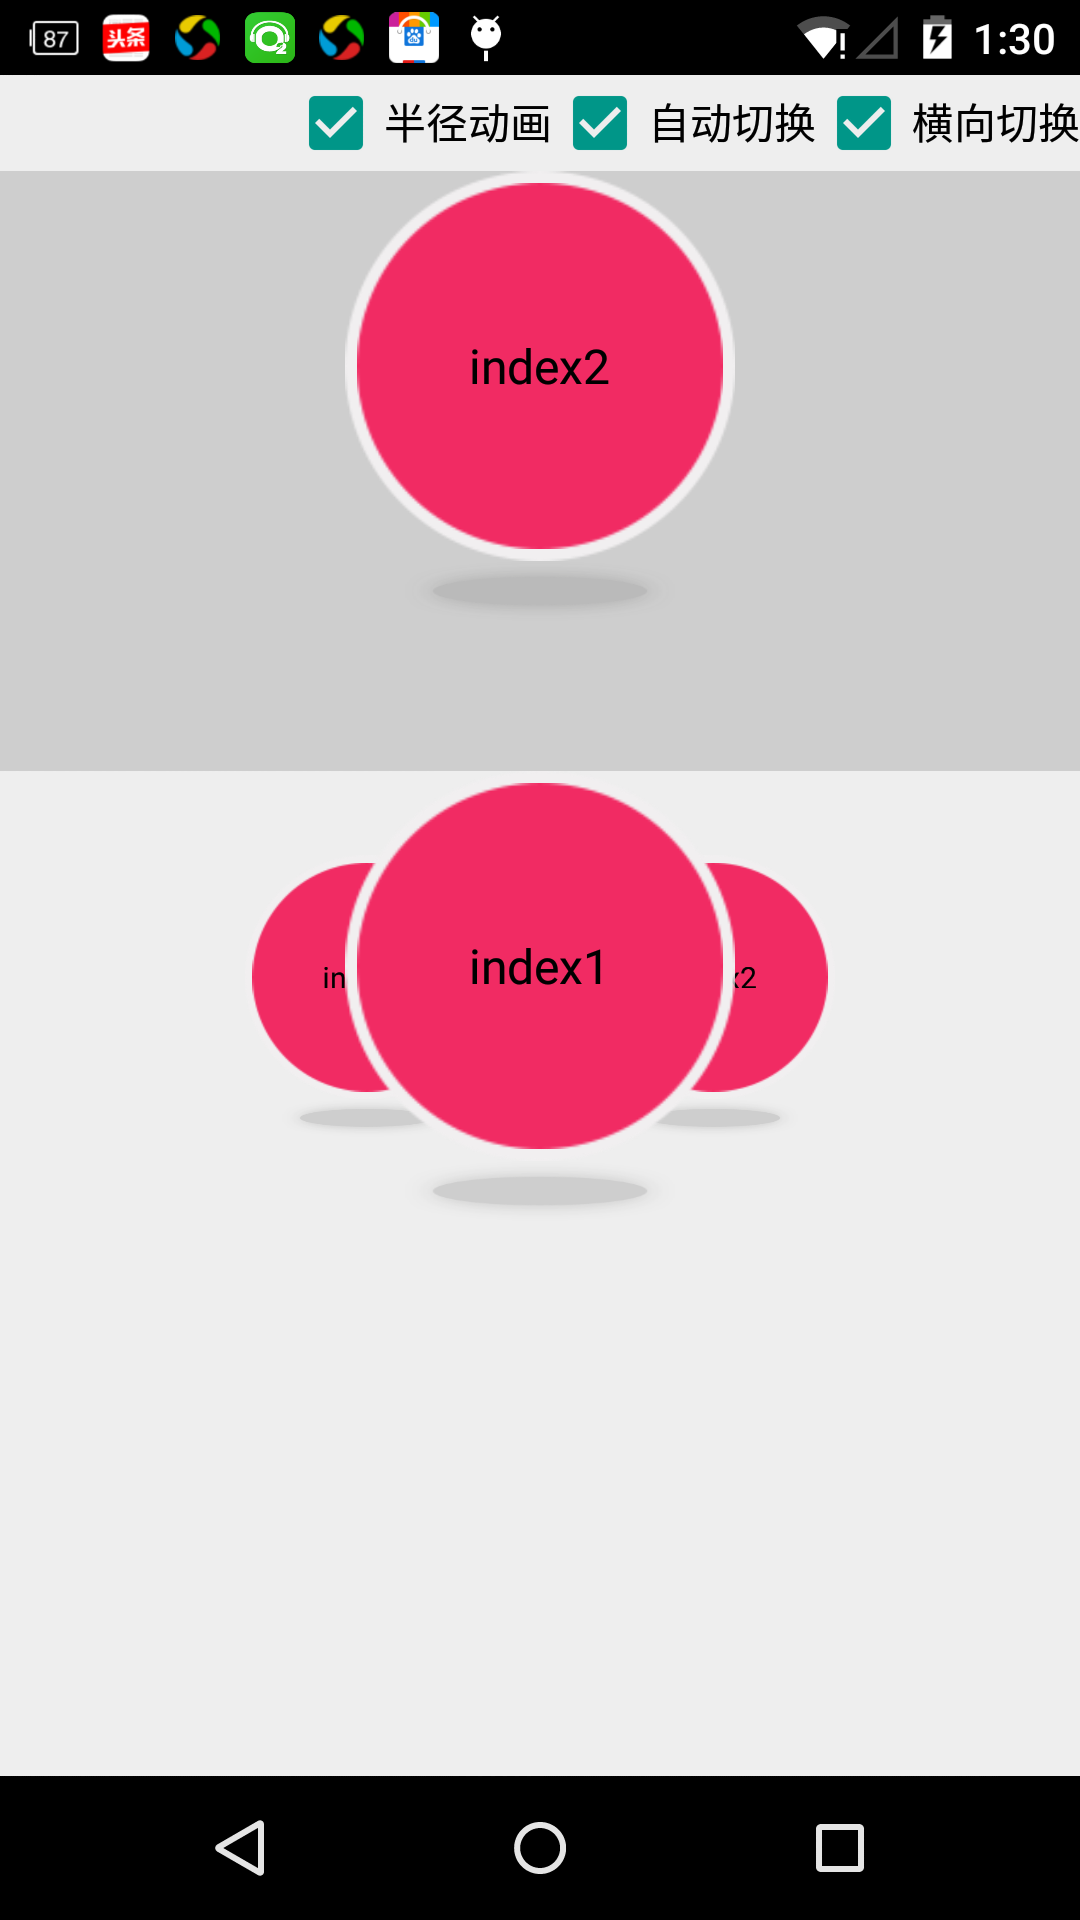
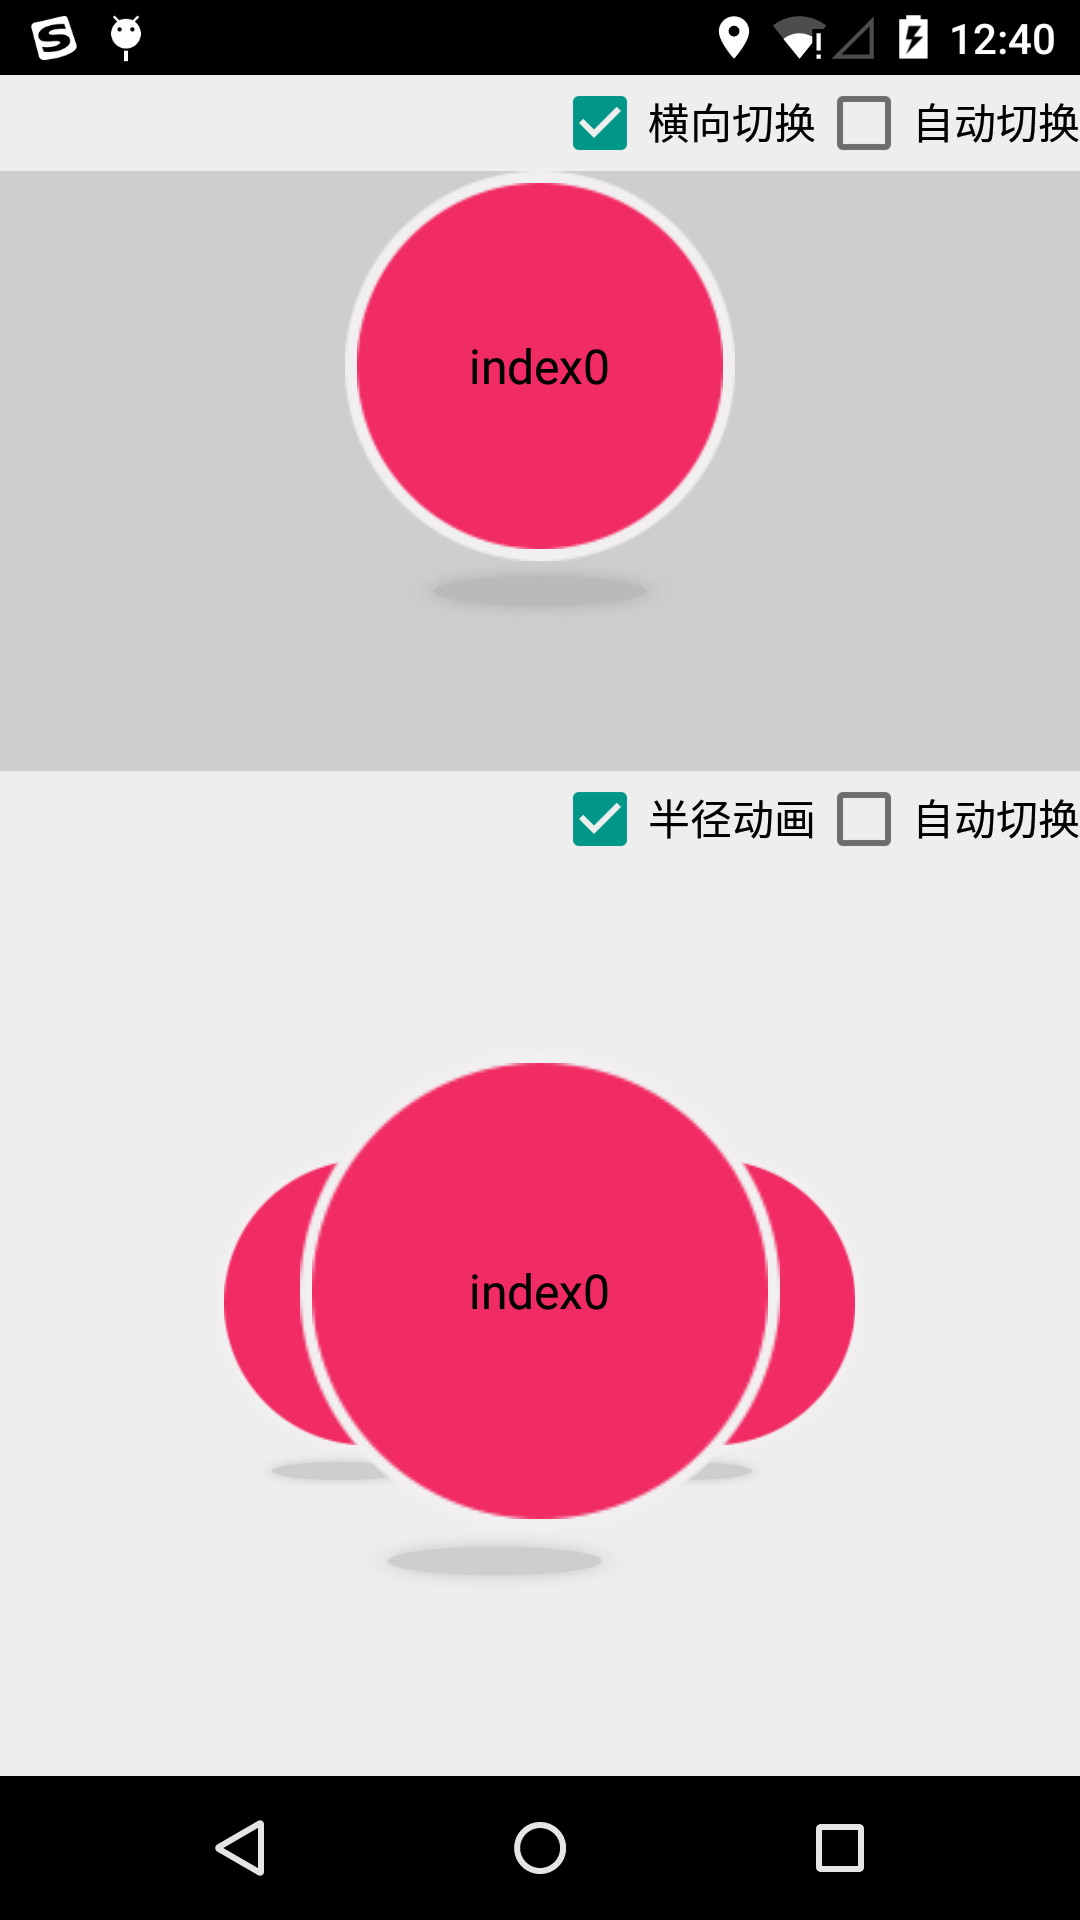
优化LoopViewPager横向竖向切换稳定性，优化LoopView排序内存占用

diff --git a/loopviews/src/main/java/com/cry/loopviews/LoopView.java b/loopviews/src/main/java/com/cry/loopviews/LoopView.java
@@ -21,10 +21,11 @@ import java.util.List;
  */
 public class LoopView extends RelativeLayout{
     final static int LoopR=200;;
-    Context con;
     ValueAnimator restAnimator =null;//回位动画
     ValueAnimator rAnimation =null;//半径动画
     GestureDetector mGestureDetector=null;//手势类
+    Comparator comp=new SortComparator();
+    List<View> viewSortArray =new ArrayList<View>();
     private int selectItem=0;//当前选择项
     private int   size=0;//个数
     private float r=LoopR;//半径
@@ -58,11 +59,9 @@ public class LoopView extends RelativeLayout{
     }
 
     private void init(Context context) {
-        this.con=context;
         mGestureDetector= new GestureDetector(context, getGeomeryController());
     }
     private void sortList(List<View> list){
-        Comparator comp=new SortComparator();
         Collections.sort(list, comp);
         for (int i=0;i<list.size();i++){
             list.get(i).bringToFront();
@@ -83,7 +82,6 @@ public class LoopView extends RelativeLayout{
         return new GestureDetector.SimpleOnGestureListener(){
             @Override
             public boolean onScroll(MotionEvent e1, MotionEvent e2, float distanceX, float distanceY) {
-                //Log.i("ds","distance:"+distanceX);
                 angle+=distanceX/4;
                 invate();
                 return true;
@@ -101,13 +99,13 @@ public class LoopView extends RelativeLayout{
             views.get(i).setScaleY(scale0);
             views.get(i).setX(width / 2 + x0 - views.get(i).getWidth() / 2);
         }
-        List<View> arr=new ArrayList<View>();
+        viewSortArray.clear();
         for (int i=0;i<views.size();i++){
-            arr.add(views.get(i));
+            viewSortArray.add(views.get(i));
             views.get(i).setTag(i);
         }
-        sortList(arr);
-        postInvalidate();
+        sortList(viewSortArray);
+        invalidate();
     }
 
     @Override
@@ -148,10 +146,10 @@ public class LoopView extends RelativeLayout{
 
 
     public void InitData() {
-        initView();
+        loadAllViews();
         if(onItemSelectedListener!=null){onItemSelectedListener.selected(selectItem,views.get(selectItem));}
     }
-    private void initView() {
+    private void loadAllViews() {
         for (int i=0;i<views.size();i++){
             views.remove(i);
         }
@@ -161,7 +159,6 @@ public class LoopView extends RelativeLayout{
             views.add(getChildAt(i));
         }
     }
-
     private void restPosition() {
         if(size==0){return;}
         float finall=0;
@@ -184,14 +181,11 @@ public class LoopView extends RelativeLayout{
         }
         AnimRotationTo(finall, null);
     }
-
-
     private void AnimRotationTo(float finall, final Runnable complete){
         if(angle==finall){return;}
         restAnimator = ValueAnimator.ofFloat(angle,finall);
         restAnimator.setInterpolator(new DecelerateInterpolator());
         restAnimator.setDuration(300);
-
         restAnimator.addUpdateListener(new ValueAnimator.AnimatorUpdateListener() {
             @Override
             public void onAnimationUpdate(ValueAnimator animation) {
@@ -271,16 +265,10 @@ public class LoopView extends RelativeLayout{
         }
         return true;
     }
-
-
     @Override
     public boolean onTouchEvent(MotionEvent event) {
-        //onTouch(event);
         return true;
     }
-
-
-
     @Override
     public boolean dispatchTouchEvent(MotionEvent ev) {
         onTouch(ev);

diff --git a/app/src/main/java/com/cry/animation/activity/MainActivity.java b/app/src/main/java/com/cry/animation/activity/MainActivity.java
@@ -18,8 +18,8 @@ import java.util.List;
 
 public class MainActivity extends Activity {
     LoopView loopView;
-    LoopViewPager pager;
-    CheckBox checkBox_hx,checkBox_zd,checkBox_bj;
+    LoopViewPager loopViewPager;
+    CheckBox checkBox_hx,checkbox_zd_loopviewpager,checkBox_bj,checkbox_zd_loopview;
     @Override
     protected void onCreate(Bundle savedInstanceState) {
         super.onCreate(savedInstanceState);
@@ -27,19 +27,21 @@ public class MainActivity extends Activity {
 
 
         checkBox_hx=(CheckBox)findViewById(R.id.checkbox_hx);
-        checkBox_zd=(CheckBox)findViewById(R.id.checkbox_zd);
+        checkbox_zd_loopviewpager=(CheckBox)findViewById(R.id.checkbox_zd_loopviewpager);
+        checkbox_zd_loopview=(CheckBox)findViewById(R.id.checkbox_zd_loopview);
         checkBox_bj=(CheckBox)findViewById(R.id.checkbox_r_animation);
 
         //LoopViewPager 使用方法---------------------------------------------
-        pager=(LoopViewPager)findViewById(R.id.loopViewPager);
-        pager.setList(getViewList());//设置ViewList
+        loopViewPager =(LoopViewPager)findViewById(R.id.loopViewPager);
+        loopViewPager.setAutoChangeTime(1*1000);//设置自动切换时间
+        loopViewPager.setList(getViewList());//设置ViewList
 
 
 
 
         //LoopView 使用方法---------------------------------------------
         loopView=(LoopView)findViewById(R.id.loopView);
-        loopView.setAutoRotationTime(3 * 1000);//设置自动旋转时间
+        loopView.setAutoRotationTime(1 * 1000);//设置自动旋转时间
         loopView.setR(200);//设置半径
         //loopView.RAnimation();//半径动画
 
@@ -47,14 +49,19 @@ public class MainActivity extends Activity {
         checkBox_hx.setOnCheckedChangeListener(new CompoundButton.OnCheckedChangeListener() {
             @Override
             public void onCheckedChanged(CompoundButton buttonView, boolean isChecked) {
-                pager.setHorizontal(isChecked);//设置是否横向切换
+                loopViewPager.setHorizontal(isChecked);//设置是否横向切换
             }
         });
-        checkBox_zd.setOnCheckedChangeListener(new CompoundButton.OnCheckedChangeListener() {
+        checkbox_zd_loopviewpager.setOnCheckedChangeListener(new CompoundButton.OnCheckedChangeListener() {
             @Override
             public void onCheckedChanged(CompoundButton buttonView, boolean isChecked) {
-                loopView.setAutoRotation(isChecked);//启动自动旋转
-                pager.setAutoChange(isChecked);
+                loopViewPager.setAutoChange(isChecked);//启动LoopViewPager自动切换
+            }
+        });
+        checkbox_zd_loopview.setOnCheckedChangeListener(new CompoundButton.OnCheckedChangeListener() {
+            @Override
+            public void onCheckedChanged(CompoundButton buttonView, boolean isChecked) {
+                loopView.setAutoRotation(isChecked);//启动LoopView自动切换
             }
         });
         checkBox_bj.setOnCheckedChangeListener(new CompoundButton.OnCheckedChangeListener() {
@@ -65,7 +72,7 @@ public class MainActivity extends Activity {
         });
     }
 
-    /*准备给ViewPager 设置要添加的View*/
+    /*准备给ViewPager 设置要您的需要添加的View*/
     private List<View> getViewList() {
         List<View> arr=new ArrayList<View>();
         for (int i=0;i<3;i++){

diff --git a/loopviews/src/main/java/com/cry/loopviews/LoopViewPager.java b/loopviews/src/main/java/com/cry/loopviews/LoopViewPager.java
@@ -119,6 +119,7 @@ public class LoopViewPager extends FrameLayout{
 
 
     public void setHorizontal(boolean horizontal) {
+        try{valueAnimator.end();}catch (Exception e){e.printStackTrace();}
         this.item=0;
         this.horizontal = horizontal;
         this.requestLayout();
